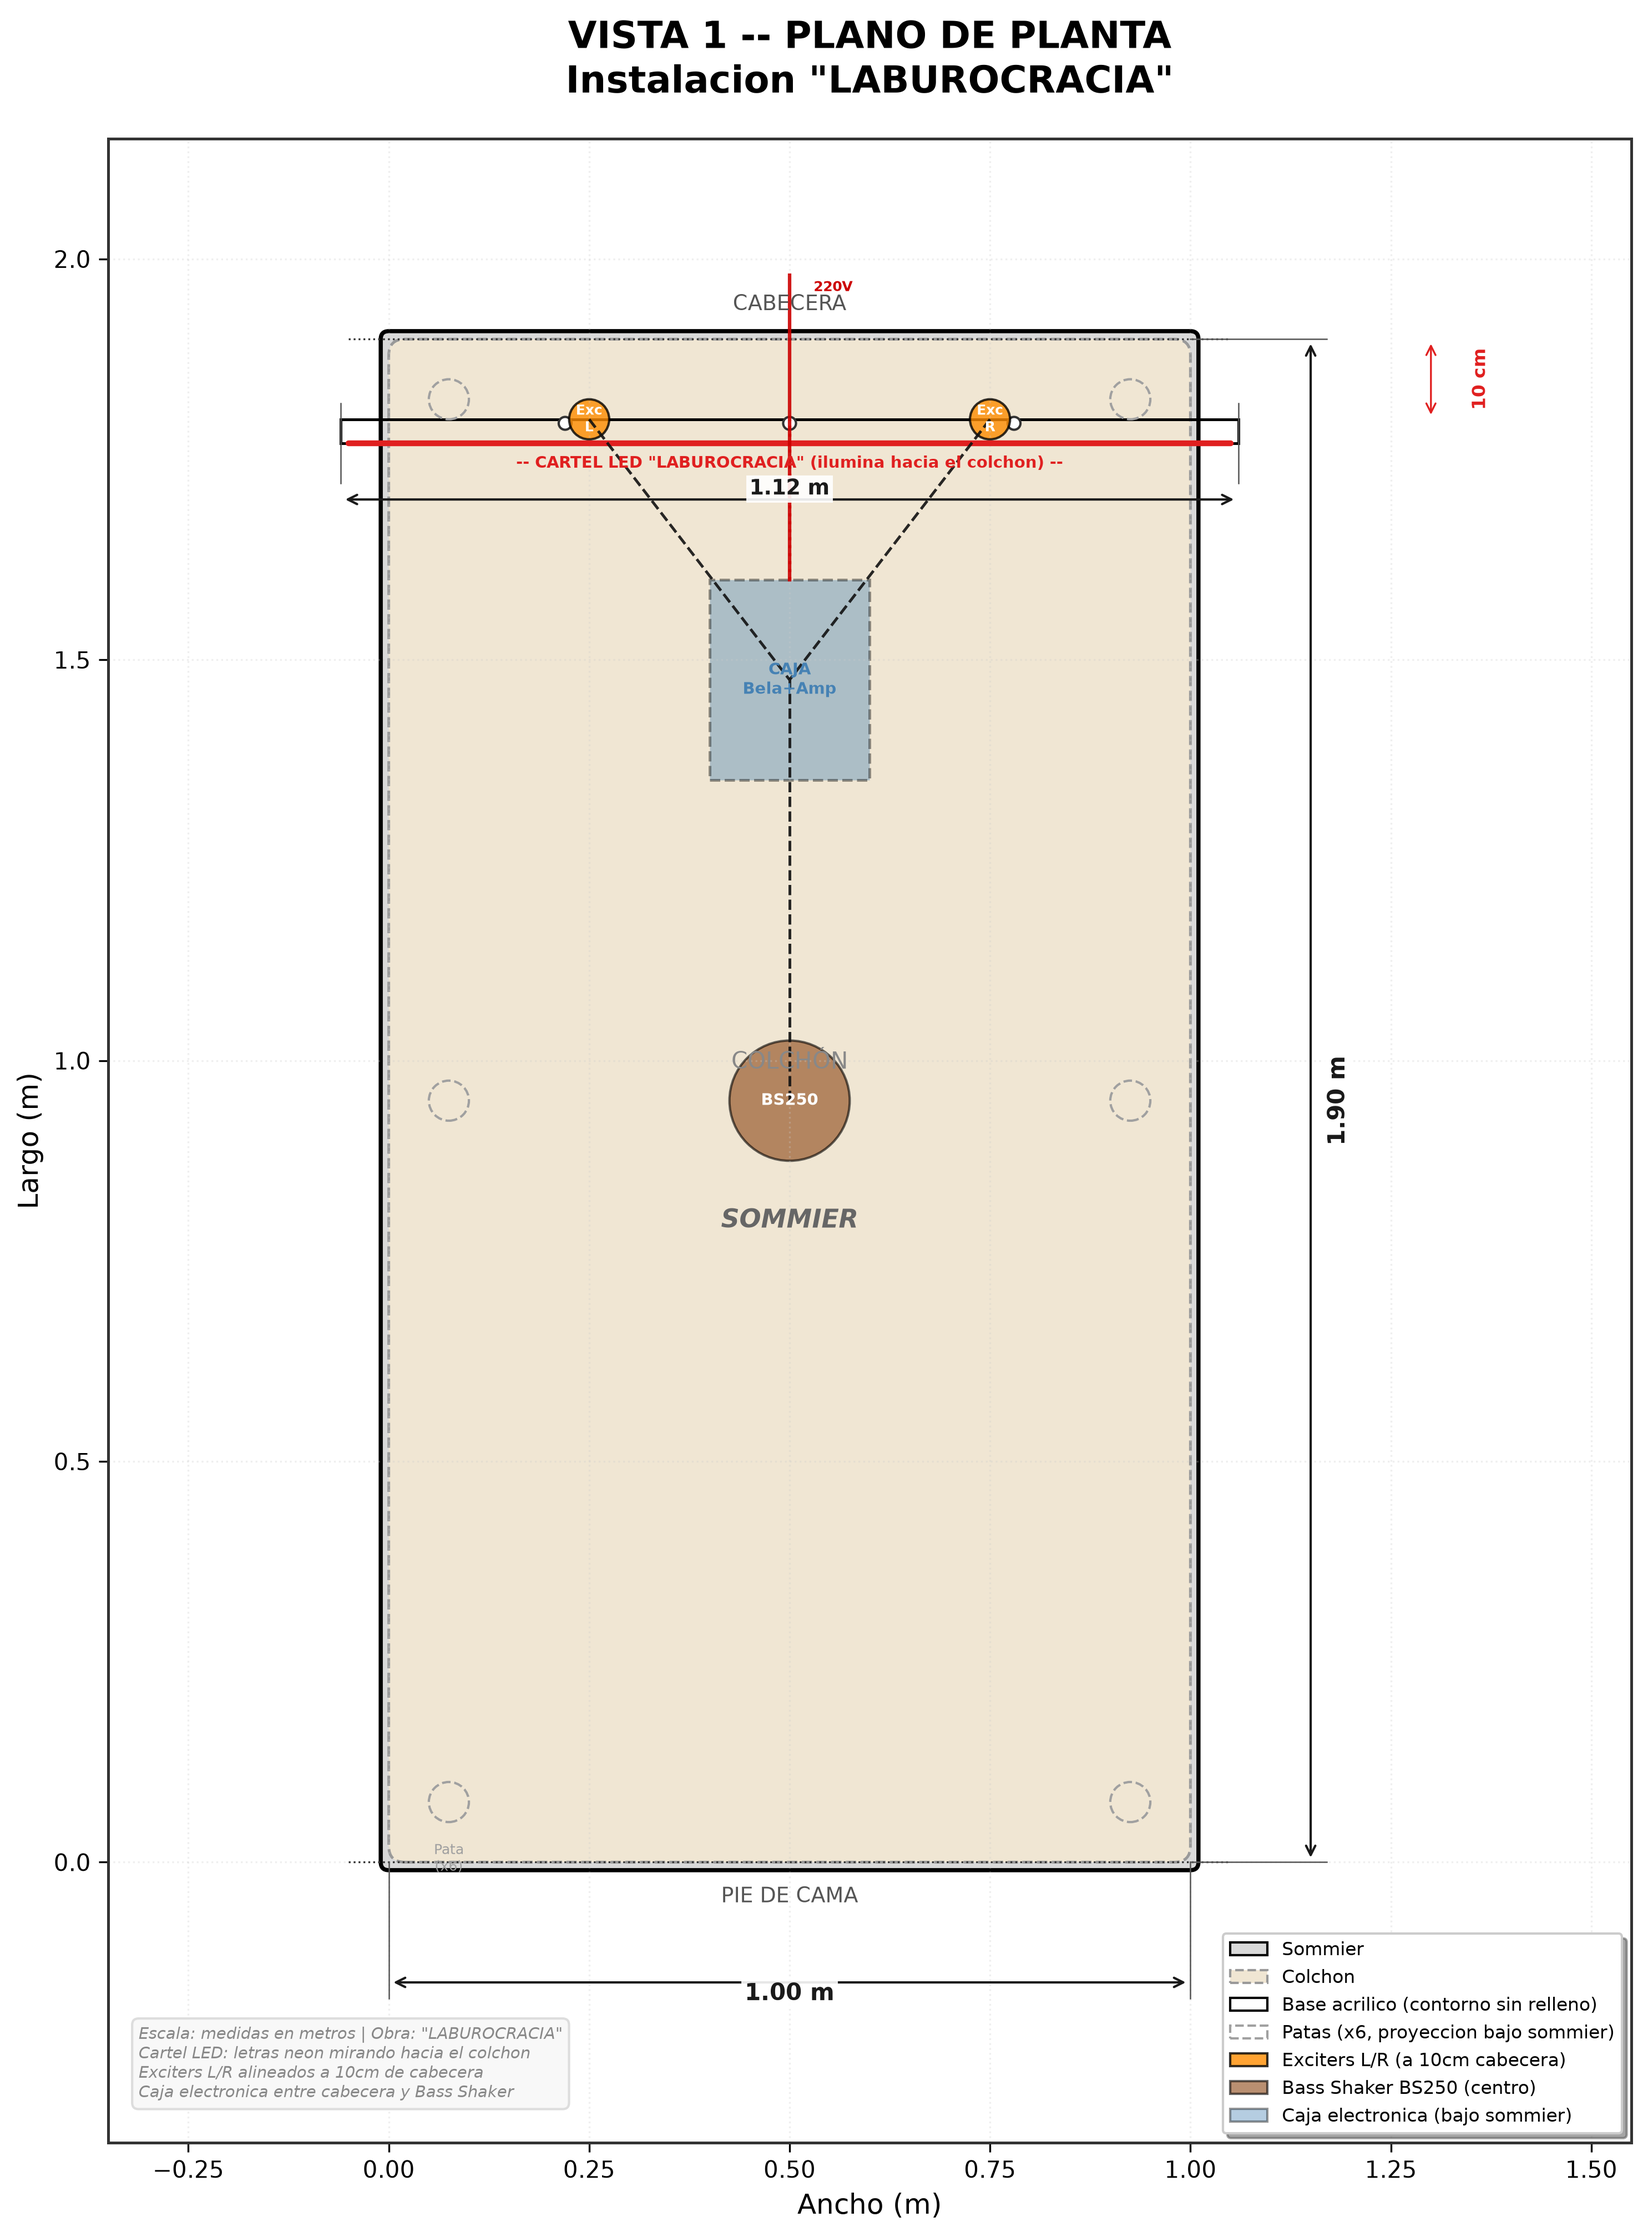
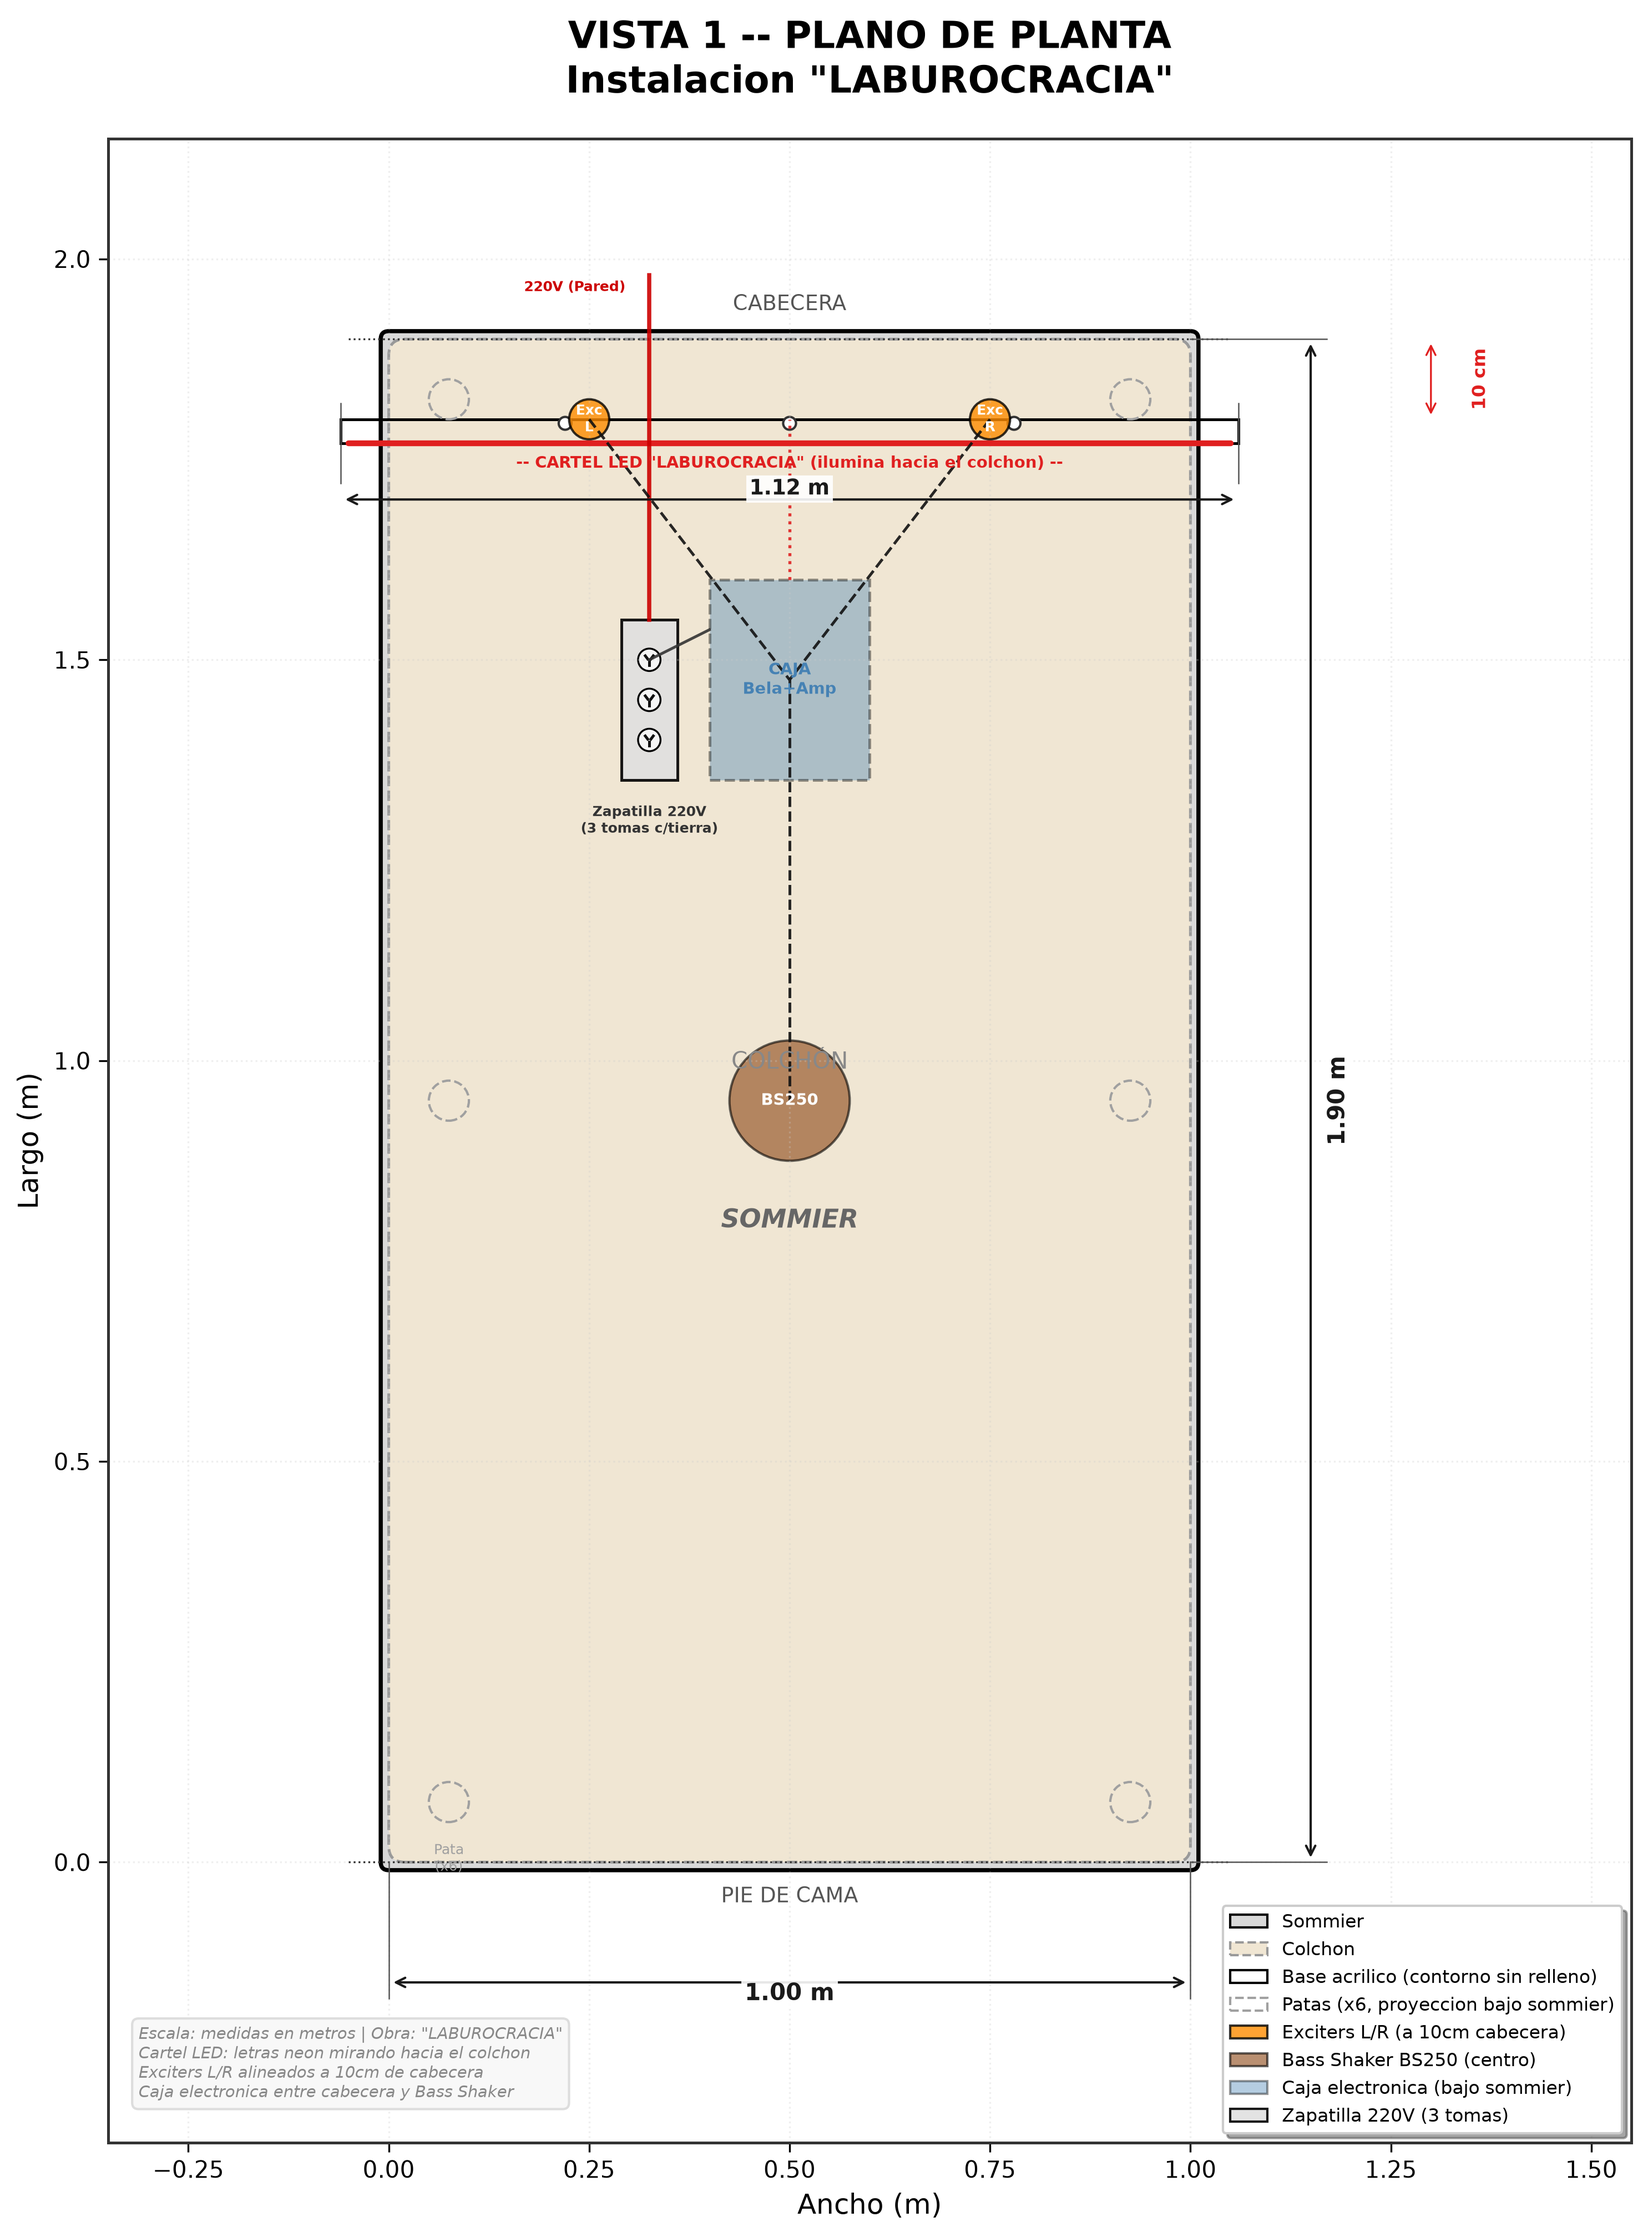
Agregar zapatilla multisocket 220V con tomas de 3 patas c/tierra a todas las vistas

diff --git a/planos_instalacion.py b/planos_instalacion.py
@@ -87,6 +87,11 @@ CAJA_LARGO = 0.25    # m (25cm)
 CAJA_ANCHO = 0.20    # m (20cm)
 CAJA_ALTO  = 0.08    # m (8cm)
 
+# Zapatilla multisocket (3 tomas 220V)
+ZAPATILLA_LARGO = 0.20   # m (20cm)
+ZAPATILLA_ANCHO = 0.07   # m (7cm)
+ZAPATILLA_ALTO  = 0.04   # m (4cm)
+
 # Espesor del cartel (para vista de perfil)
 CARTEL_ESPESOR = 0.03  # m (~3cm acrílico + neón)
 
@@ -95,6 +100,7 @@ COLOR_PATA = '#A0A0A0'          # Gris medio
 COLOR_EXCITER = '#FF8C00'       # Naranja
 COLOR_BASS_SHAKER = '#8B4513'   # Marrón
 COLOR_CAJA = '#4682B4'          # Azul acero
+COLOR_ZAPATILLA = '#E0E0E0'     # Gris claro / blanco
 COLOR_CABLE = '#666666'         # Gris para cables
 
 
@@ -304,22 +310,57 @@ def generar_vista_planta():
             ha='center', va='center', fontsize=7, color=COLOR_CAJA,
             fontweight='bold')
 
-    # Cables (lineas opacas y visibles hacia la caja)
+    # --- ZAPATILLA MULTISOCKET 220V (a la izquierda de la caja de electronica) ---
+    zapatilla_x = caja_x - ZAPATILLA_ANCHO - 0.04  # X = 0.29m
+    zapatilla_y = caja_y                           # Y = 1.35m
+    zap_rect = mpatches.Rectangle(
+        (zapatilla_x, zapatilla_y), ZAPATILLA_ANCHO, ZAPATILLA_LARGO,
+        facecolor=COLOR_ZAPATILLA, edgecolor='black', linewidth=1.2,
+        alpha=0.9, linestyle='-'
+    )
+    ax.add_patch(zap_rect)
+
+    # 3 tomas / enchufes de 3 patas con puesta a tierra (IRAM 2073 / Tipo I)
+    zap_cx = zapatilla_x + ZAPATILLA_ANCHO / 2
+    for i in range(3):
+        socket_y = zapatilla_y + (i + 1) * (ZAPATILLA_LARGO / 4)
+        circ_soc = plt.Circle((zap_cx, socket_y), 0.014,
+                              facecolor='#F5F5F5', edgecolor='black', linewidth=0.8)
+        ax.add_patch(circ_soc)
+
+        # Patas oblicuas superiores (Fase y Neutro)
+        ax.plot([zap_cx - 0.005, zap_cx - 0.002], [socket_y + 0.005, socket_y + 0.001],
+                color='#111111', linewidth=1.2)
+        ax.plot([zap_cx + 0.005, zap_cx + 0.002], [socket_y + 0.005, socket_y + 0.001],
+                color='#111111', linewidth=1.2)
+        # Pata vertical inferior (Tierra)
+        ax.plot([zap_cx, zap_cx], [socket_y - 0.002, socket_y - 0.007],
+                color='#111111', linewidth=1.2)
+
+    ax.text(zap_cx, zapatilla_y - 0.03, 'Zapatilla 220V\n(3 tomas c/tierra)',
+            ha='center', va='top', fontsize=6, fontweight='bold', color='#333333')
+
+    # Cable 220V principal: desde la pared (cabecera) directo a la ZAPATILLA
+    ax.plot([zap_cx, zap_cx], [zapatilla_y + ZAPATILLA_LARGO, SOMMIER_LARGO + 0.08],
+            color='#CC0000', linewidth=1.8, linestyle='-', alpha=0.9)
+    ax.text(zap_cx - 0.03, SOMMIER_LARGO + 0.06, '220V (Pared)',
+            fontsize=6, color='#CC0000', fontweight='bold', ha='right')
+
+    # Cables cortos de alimentación desde la ZAPATILLA:
+    # 1. Alimentación a la Caja Bela+Amp
+    ax.plot([zap_cx, caja_x], [zapatilla_y + ZAPATILLA_LARGO * 0.75, caja_y + CAJA_LARGO * 0.75],
+            color='#333333', linewidth=1.2, linestyle='-', alpha=0.9)
+
+    # 2. Alimentación 12V / Neón hacia el Cartel LED (desde la caja o zapatilla)
     caja_cx = caja_x + CAJA_ANCHO/2
     caja_cy = caja_y + CAJA_LARGO/2
     for tx, ty in [(ex_l_x, exciter_y), (ex_r_x, exciter_y), (bs_x, bs_y)]:
         ax.plot([tx, caja_cx], [ty, caja_cy],
                 color='#111111', linewidth=1.2, linestyle='--', alpha=0.9)
 
-    # Cable 12V desde caja al cartel LED
+    # Cable 12V desde caja/zapatilla al cartel LED
     ax.plot([caja_cx, SOMMIER_ANCHO/2], [caja_y + CAJA_LARGO, cartel_y0],
             color='#E02020', linewidth=1.3, linestyle=':', alpha=0.9)
-
-    # Cable 220V desde caja a pared
-    ax.plot([caja_cx, caja_cx], [caja_y + CAJA_LARGO, SOMMIER_LARGO + 0.08],
-            color='#CC0000', linewidth=1.5, linestyle='-', alpha=0.9)
-    ax.text(caja_cx + 0.03, SOMMIER_LARGO + 0.06, '220V',
-            fontsize=6, color='#CC0000', fontweight='bold')
 
     # === COTAS ===
 
@@ -377,6 +418,8 @@ def generar_vista_planta():
                        alpha=0.6, label='Bass Shaker BS250 (centro)'),
         mpatches.Patch(facecolor=COLOR_CAJA, edgecolor='black',
                        alpha=0.4, label='Caja electronica (bajo sommier)'),
+        mpatches.Patch(facecolor=COLOR_ZAPATILLA, edgecolor='black',
+                       alpha=0.9, label='Zapatilla 220V (3 tomas)'),
     ]
     ax.legend(handles=legend_elements, loc='lower right', fontsize=8,
               frameon=True, fancybox=True, shadow=True)
@@ -432,6 +475,16 @@ def generar_vista_elevacion():
     ax.text(patas_x_lateral[2] + 0.06, PATA_ALTO / 2, 'Patas\n15cm',
             ha='left', va='center', fontsize=6, color=COLOR_PATA)
 
+    # --- ZAPATILLA MULTISOCKET 220V (en el piso, cerca de la cabecera) ---
+    zap_x_lateral = CARTEL_OFFSET_CABECERA + 0.05  # Ubicada a 15cm de la cabecera
+    zap_rect_lat = mpatches.Rectangle(
+        (zap_x_lateral, 0), ZAPATILLA_LARGO, ZAPATILLA_ALTO,
+        facecolor=COLOR_ZAPATILLA, edgecolor='black', linewidth=1.0, alpha=0.9
+    )
+    ax.add_patch(zap_rect_lat)
+    ax.text(zap_x_lateral + ZAPATILLA_LARGO/2, ZAPATILLA_ALTO/2, 'Zapatilla 220V',
+            ha='center', va='center', fontsize=5, color='#333333', fontweight='bold')
+
     # --- CAJA ELECTRONICA (en el piso, entre la cabecera y el Bass Shaker) ---
     caja_x = CARTEL_OFFSET_CABECERA + 0.25  # Ubicada a ~35cm de la cabecera, antes del Bass Shaker (0.95m)
     caja_rect = mpatches.Rectangle(
@@ -442,9 +495,13 @@ def generar_vista_elevacion():
     ax.text(caja_x + CAJA_LARGO/2, CAJA_ALTO/2, 'Bela+Amp',
             ha='center', va='center', fontsize=6, color='white', fontweight='bold')
 
-    # Cable 220V de caja a pared (atras)
-    ax.plot([caja_x, -0.05], [CAJA_ALTO/2, CAJA_ALTO/2],
+    # Cable 220V principal de la pared a la Zapatilla
+    ax.plot([zap_x_lateral, -0.05], [ZAPATILLA_ALTO/2, ZAPATILLA_ALTO/2],
             color='#CC0000', linewidth=1.5, linestyle='-', alpha=0.9)
+
+    # Cable de alimentación de Zapatilla a caja Bela+Amp
+    ax.plot([zap_x_lateral + ZAPATILLA_LARGO, caja_x], [ZAPATILLA_ALTO/2, CAJA_ALTO/2],
+            color='#333333', linewidth=1.2, linestyle='-', alpha=0.9)
 
     # --- SOMMIER (ahora sobre las patas) ---
     sommier_y0 = PATA_ALTO
@@ -810,13 +867,26 @@ def dibujar_componentes_3d(ax):
                    CAJA_ANCHO, CAJA_LARGO, CAJA_ALTO,
                    color='#FFFFFF', edgecolor='black', alpha=0.9, linewidth=1.2, label='Bela+Amp')
 
-    # Cable 220V saliendo de la caja hacia la pared (cabecera)
-    cable_x = caja_x + CAJA_ANCHO / 2
-    ax.plot([cable_x, cable_x], [caja_y + CAJA_LARGO, SOMMIER_LARGO + 0.05],
-            [CAJA_ALTO/2, CAJA_ALTO/2],
+    # === ZAPATILLA MULTISOCKET 220V (a la izquierda de la caja de electronica) ===
+    zapatilla_x = caja_x - ZAPATILLA_ANCHO - 0.04  # X = 0.29m
+    zapatilla_y = caja_y                           # Y = 1.35m
+    dibujar_prisma(ax, zapatilla_x, zapatilla_y, 0,
+                   ZAPATILLA_ANCHO, ZAPATILLA_LARGO, ZAPATILLA_ALTO,
+                   color=COLOR_ZAPATILLA, edgecolor='black', alpha=0.9, linewidth=1.0, label='Zapatilla 220V')
+
+    # Cable 220V principal: saliendo de la Zapatilla hacia la pared (cabecera)
+    zap_cx = zapatilla_x + ZAPATILLA_ANCHO / 2
+    ax.plot([zap_cx, zap_cx], [zapatilla_y + ZAPATILLA_LARGO, SOMMIER_LARGO + 0.05],
+            [ZAPATILLA_ALTO/2, ZAPATILLA_ALTO/2],
             color='#CC0000', linewidth=1.8, linestyle='-', alpha=0.9)
-    ax.text(cable_x, SOMMIER_LARGO + 0.06, CAJA_ALTO/2, '220V',
+    ax.text(zap_cx, SOMMIER_LARGO + 0.06, ZAPATILLA_ALTO/2, '220V',
             ha='center', fontsize=6, color='#CC0000', fontweight='bold')
+
+    # Cable corto de alimentación de Zapatilla a caja Bela+Amp
+    cable_x = caja_x + CAJA_ANCHO / 2
+    ax.plot([zap_cx, caja_x], [zapatilla_y + ZAPATILLA_LARGO * 0.75, caja_y + CAJA_LARGO * 0.75],
+            [ZAPATILLA_ALTO/2, CAJA_ALTO/2],
+            color='#333333', linewidth=1.2, linestyle='-', alpha=0.9)
 
     # === SOMMIER ===
     dibujar_prisma(ax, 0, 0, PATA_ALTO,
@@ -962,6 +1032,7 @@ def generar_vista_iso_frente():
         mpatches.Patch(facecolor=COLOR_EXCITER, edgecolor='black', label='Exciters L/R'),
         mpatches.Patch(facecolor=COLOR_BASS_SHAKER, edgecolor='black', label='Bass Shaker BS250'),
         mpatches.Patch(facecolor=COLOR_CAJA, edgecolor='black', label='Caja electronica'),
+        mpatches.Patch(facecolor=COLOR_ZAPATILLA, edgecolor='black', label='Zapatilla 220V (3 tomas)'),
     ]
     ax.legend(handles=legend_elements, loc='upper left', fontsize=8,
               frameon=True, fancybox=True, shadow=True)
@@ -997,6 +1068,7 @@ def generar_vista_iso_cabecera():
         mpatches.Patch(facecolor=COLOR_EXCITER, edgecolor='black', label='Exciters L/R'),
         mpatches.Patch(facecolor=COLOR_BASS_SHAKER, edgecolor='black', label='Bass Shaker BS250'),
         mpatches.Patch(facecolor=COLOR_CAJA, edgecolor='black', label='Caja electronica'),
+        mpatches.Patch(facecolor=COLOR_ZAPATILLA, edgecolor='black', label='Zapatilla 220V (3 tomas)'),
     ]
     ax.legend(handles=legend_elements, loc='upper left', fontsize=8,
               frameon=True, fancybox=True, shadow=True)
@@ -1032,6 +1104,7 @@ def generar_vista_iso_cenital():
         mpatches.Patch(facecolor=COLOR_EXCITER, edgecolor='black', label='Exciters L/R'),
         mpatches.Patch(facecolor=COLOR_BASS_SHAKER, edgecolor='black', label='Bass Shaker BS250'),
         mpatches.Patch(facecolor=COLOR_CAJA, edgecolor='black', label='Caja electronica'),
+        mpatches.Patch(facecolor=COLOR_ZAPATILLA, edgecolor='black', label='Zapatilla 220V (3 tomas)'),
     ]
     ax.legend(handles=legend_elements, loc='upper left', fontsize=8,
               frameon=True, fancybox=True, shadow=True)
